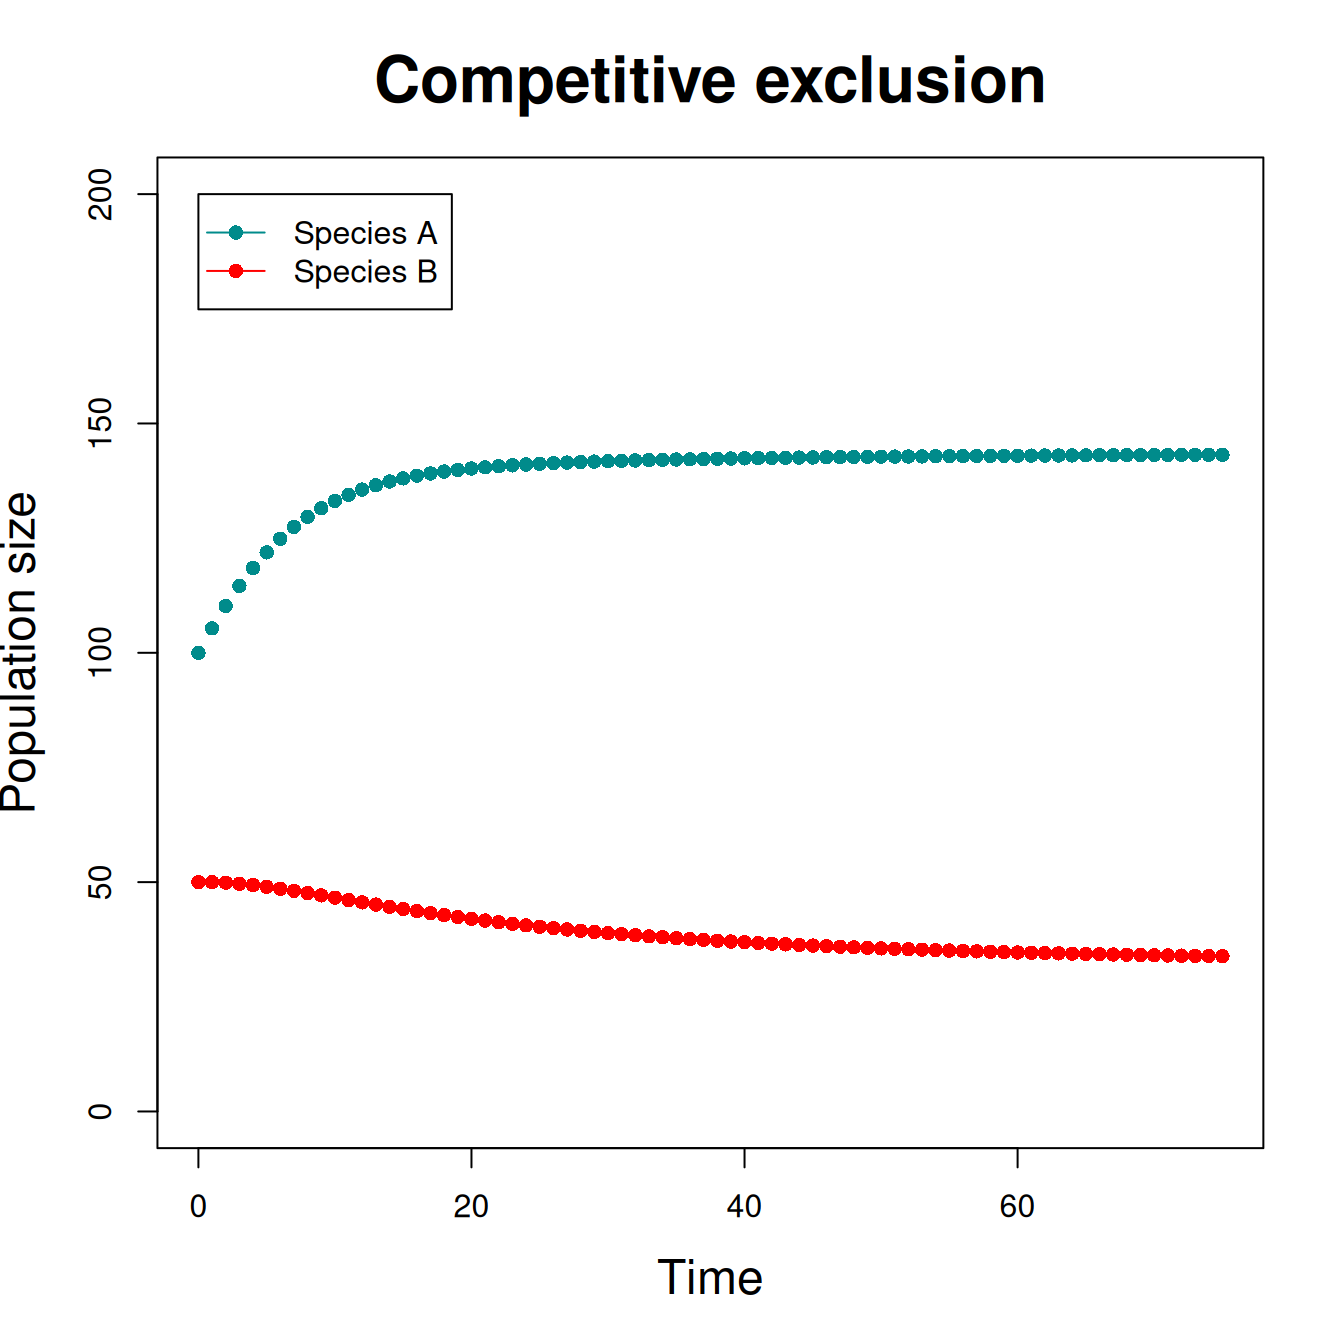
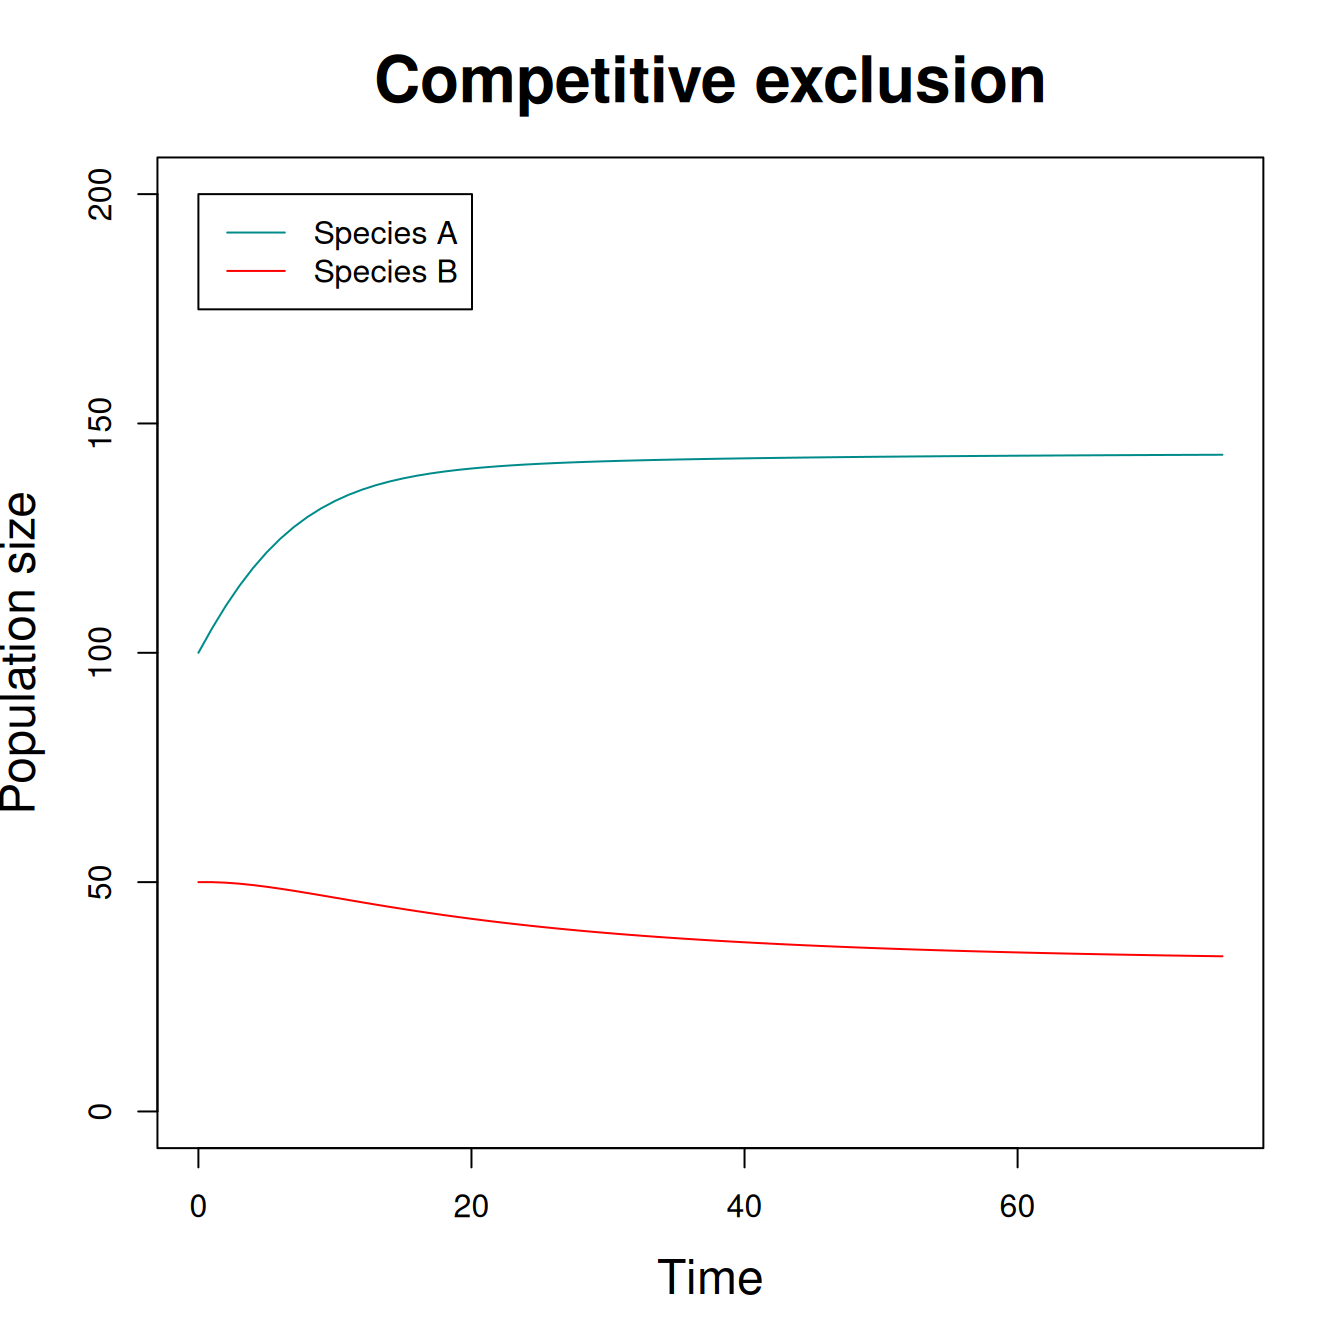
fixes

diff --git a/docs/lectures/interspecific/lecture-interspecific.html b/docs/lectures/interspecific/lecture-interspecific.html
@@ -213,8 +213,8 @@
 <a href="https://isleroyalewolf.org/">Isle Royale Website</a>
 </center>
 </section>
-<section id="haffakers-lab-experiments" class="slide level2">
-<h2>Haffaker’s Lab Experiments</h2>
+<section id="huffakers-lab-experiments" class="slide level2">
+<h2>Huffaker’s Lab Experiments</h2>
 <p><br></p>
 <center>
 <iframe width="728" height="410" src="https://www.youtube-nocookie.com/embed/-b_VBIhbuwM?si=xOquYGAMwW4kmED7" title="YouTube video player" frameborder="0" allow="accelerometer; autoplay; clipboard-write; encrypted-media; gyroscope; picture-in-picture; web-share" referrerpolicy="strict-origin-when-cross-origin" allowfullscreen="">

diff --git a/docs/index.html b/docs/index.html
@@ -209,6 +209,9 @@ ul.task-list li input[type="checkbox"] {
 </section>
 <section id="week-5---model-of-interspecific-interactions" class="level3">
 <h3 class="anchored" data-anchor-id="week-5---model-of-interspecific-interactions">Week 5 - Model of interspecific interactions</h3>
+<ul>
+<li><a href="./lectures/interspecific/lecture-interspecific.html">Lecture 8 - Competition and predation</a></li>
+</ul>
 
 
 </section>
